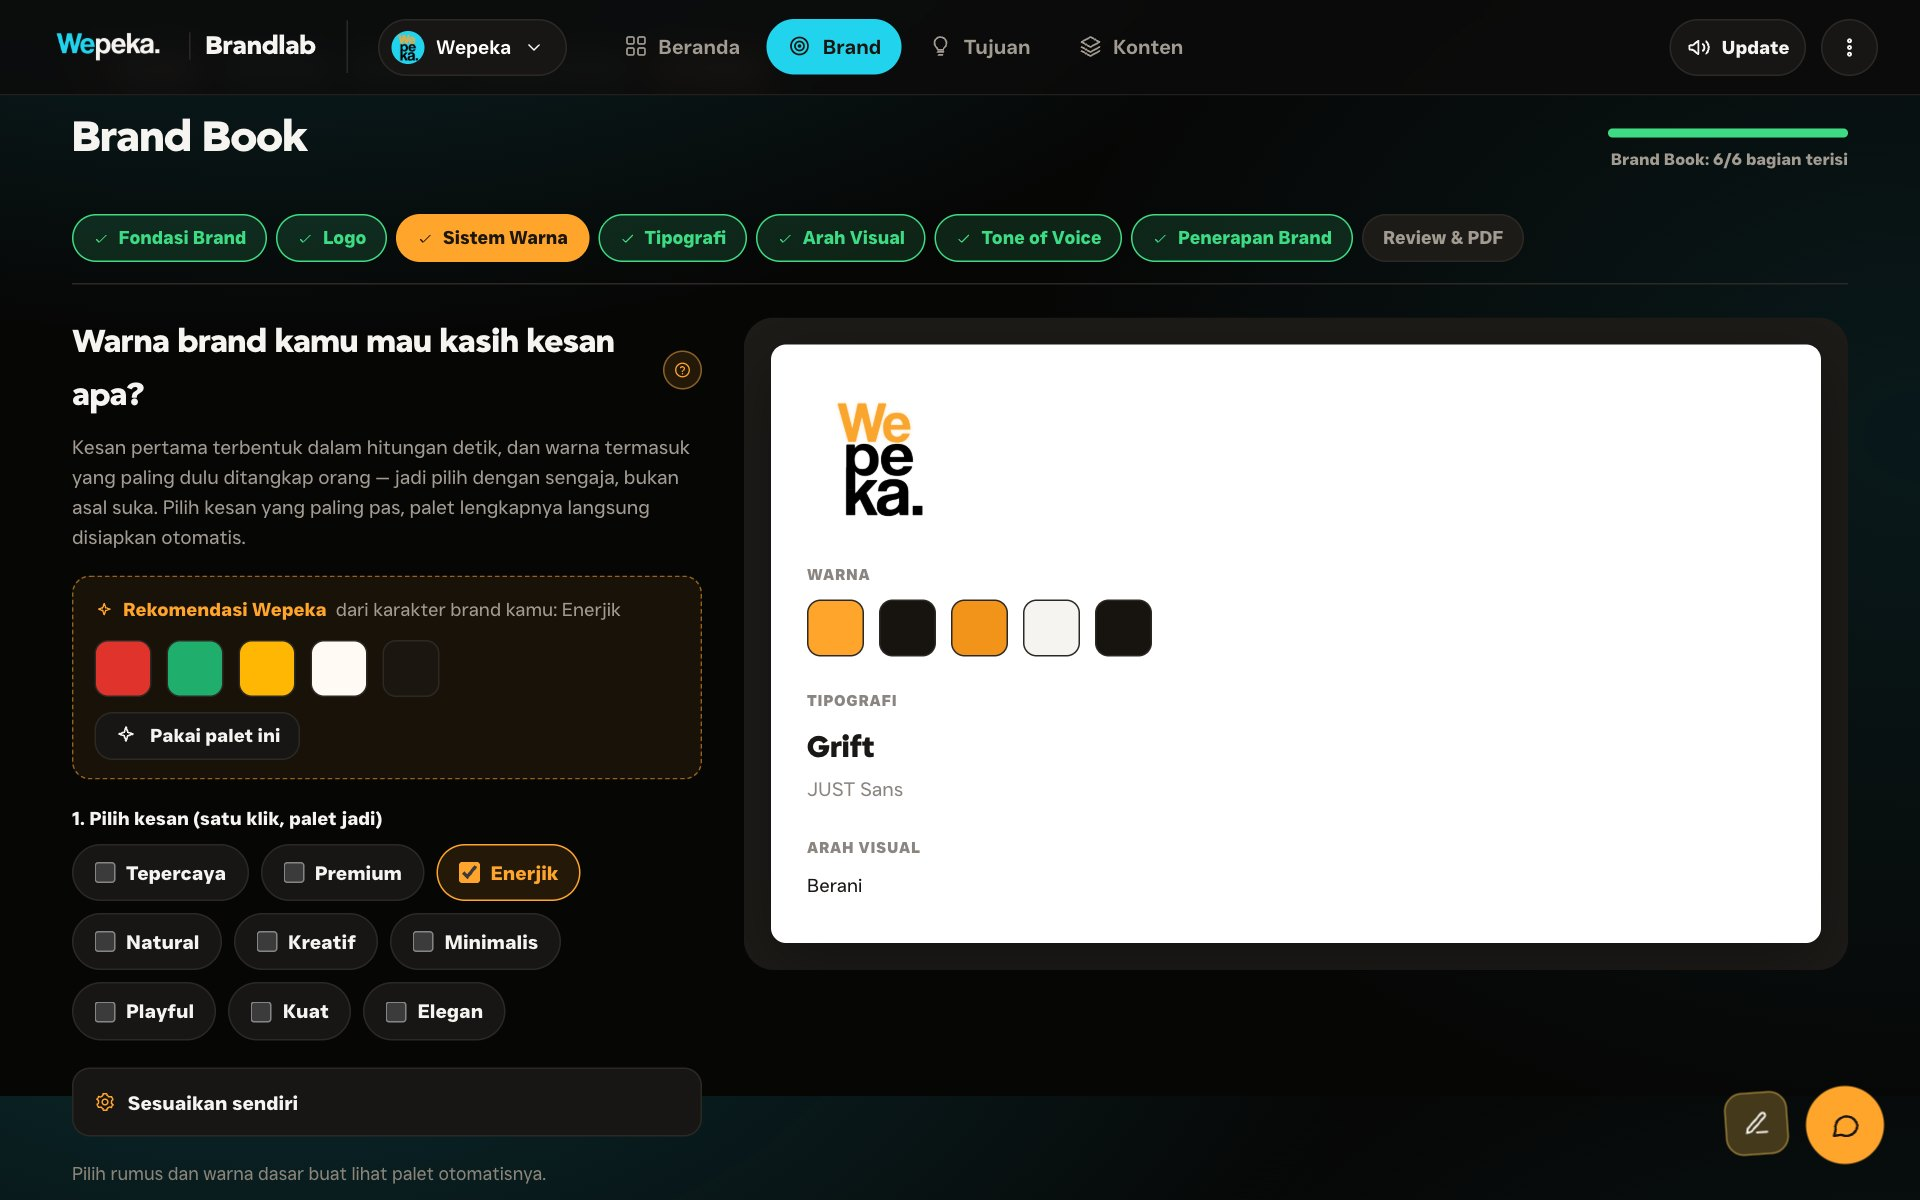
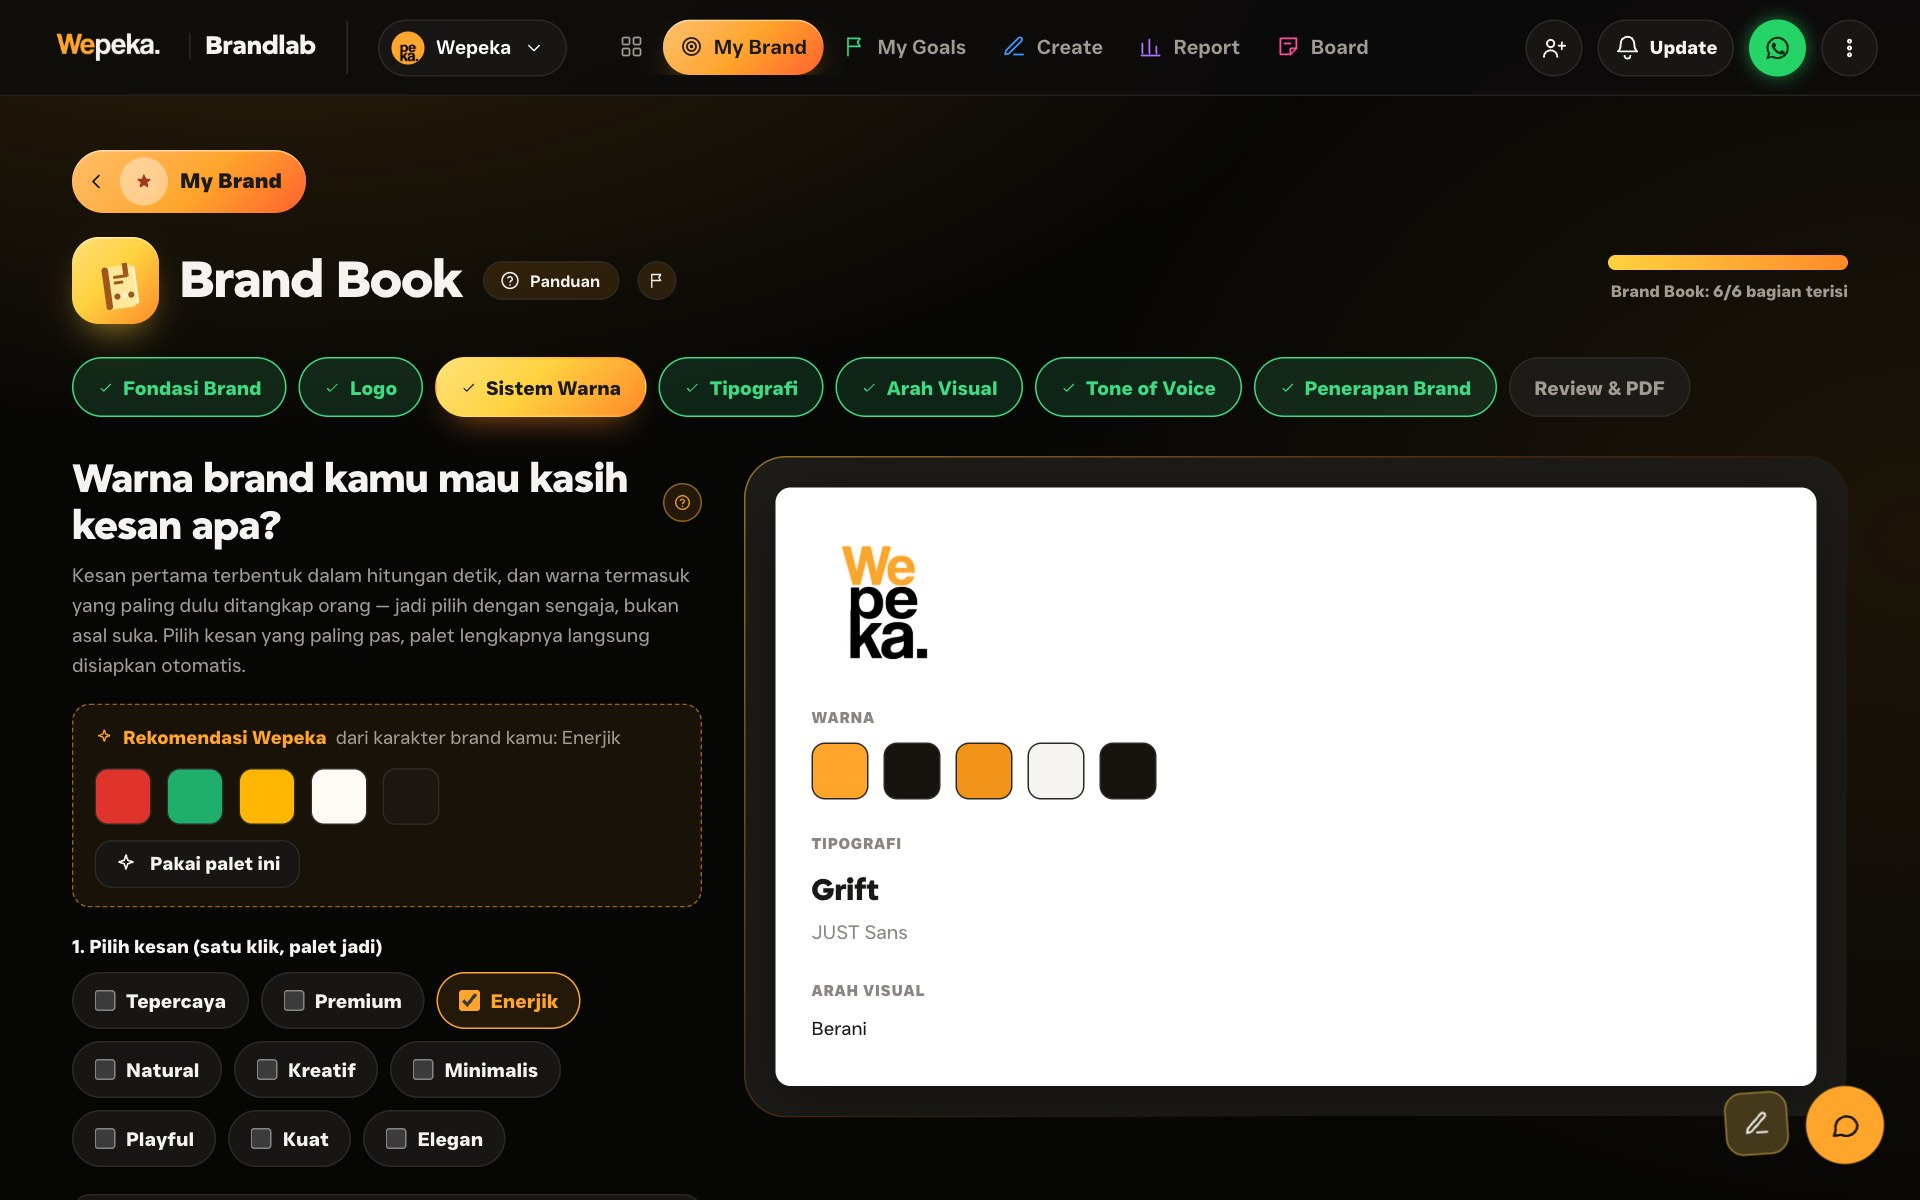
Front page and /founder show the new Brandlab (five apps)
The signed-out front page keeps in step with wepeka.com/brandlab: the 12
module screenshots are retaken from the new UI, the modules carry the app
names and colours. /founder gets the new pictures (cropped for phones),
feature tags named and coloured after the apps, and a Beranda shot of the
five apps under "Semua nyambung di 1 sistem".

diff --git a/founder/index.html b/founder/index.html
@@ -97,47 +97,47 @@
       <li>
         <span class="fd-step-n" aria-hidden="true">1</span>
         <div class="fd-step-body">
-          <span class="fd-step-tag fd-tag-brand">Brand</span>
+          <span class="fd-step-tag fd-tag-brand">My Brand</span>
           <h3>Brand DNA</h3>
           <p>Kenali pelangganmu, masalah mereka, dan kenapa harus kamu.</p>
           <div class="fd-chips"><span>7 langkah</span><span>AI kasih pilihan jawaban</span><span>One-liner brand</span></div>
-          <img src="/founder/img/brand-dna.webp" width="800" height="500" loading="lazy" decoding="async" alt="Layar Brand DNA: pertanyaan per langkah dengan pilihan jawaban dari AI">
+          <img src="/founder/img/brand-dna.webp" width="800" height="500" loading="lazy" decoding="async" alt="Layar Brand DNA: pertanyaan per langkah, contoh jawaban, dan kartu identitas brand di samping">
         </div>
       </li>
       <li>
         <span class="fd-step-n" aria-hidden="true">2</span>
         <div class="fd-step-body">
-          <span class="fd-step-tag fd-tag-brand">Brand</span>
+          <span class="fd-step-tag fd-tag-brand">My Brand</span>
           <h3>Brand Book</h3>
           <p>Logo, warna, font, dan gaya bicara jadi satu pedoman.</p>
           <div class="fd-chips"><span>Nyambung dari Brand DNA</span><span>PDF buat tim & vendor</span><span>3 gaya premium</span></div>
-          <img src="/founder/img/brand-book.webp" width="800" height="500" loading="lazy" decoding="async" alt="Layar Brand Book: memilih warna brand">
+          <img src="/founder/img/brand-book.webp" width="800" height="500" loading="lazy" decoding="async" alt="Layar Brand Book: memilih warna brand dengan rekomendasi Wepeka">
         </div>
       </li>
       <li>
         <span class="fd-step-n" aria-hidden="true">3</span>
         <div class="fd-step-body">
-          <span class="fd-step-tag fd-tag-tujuan">Tujuan</span>
-          <h3>Tujuan & milestone</h3>
+          <span class="fd-step-tag fd-tag-tujuan">My Goals</span>
+          <h3>Tujuan & target</h3>
           <p>Target besar dipecah jadi level dan milestone kecil.</p>
           <div class="fd-chips"><span>Sosmed</span><span>Komunitas</span><span>Penjualan</span><span>Progres kebaca dari datamu</span></div>
-          <img src="/founder/img/tujuan.webp" width="800" height="500" loading="lazy" decoding="async" alt="Layar Tujuan: level dan milestone menuju target">
+          <img src="/founder/img/tujuan.webp" width="800" height="500" loading="lazy" decoding="async" alt="Layar My Goals: tujuan Tumbuh di Sosmed, followers menuju target, dan level berikutnya">
         </div>
       </li>
       <li>
         <span class="fd-step-n" aria-hidden="true">4</span>
         <div class="fd-step-body">
-          <span class="fd-step-tag fd-tag-tujuan">Tujuan</span>
+          <span class="fd-step-tag fd-tag-tujuan">My Goals</span>
           <h3>Ide campaign</h3>
           <p>Mikirin ide campaign dan konten bareng AI, sampai siap dieksekusi.</p>
           <div class="fd-chips"><span>Brainstorm</span><span>Konten per tahap</span><span>Event & launching</span><span>Jadi script</span></div>
-          <img src="/founder/img/brainstorm.webp" width="800" height="500" loading="lazy" decoding="async" alt="Layar Brandlab: ide konten untuk sebuah tujuan, siap dijadikan script">
+          <img src="/founder/img/brainstorm.webp" width="800" height="500" loading="lazy" decoding="async" alt="Tanya Brandlab: ide konten dengan tombol Pakai ini, Buatkan script, dan Simpan">
         </div>
       </li>
       <li>
         <span class="fd-step-n" aria-hidden="true">5</span>
         <div class="fd-step-body">
-          <span class="fd-step-tag fd-tag-konten">Konten</span>
+          <span class="fd-step-tag fd-tag-konten">Create</span>
           <h3>Creator</h3>
           <p>Script, carousel, dan caption pakai suara brand-mu.</p>
           <div class="fd-chips"><span>100+ hook</span><span>Carousel</span><span>Teleprompter</span><span>Caption & hashtag</span></div>
@@ -145,13 +145,13 @@
             <img src="/founder/img/template-hook.webp" width="800" height="500" loading="lazy" decoding="async" alt="Layar Template hook di Creator: 10 kelompok hook dan kalimat pembuka dengan bagian kosong untuk diisi">
             <figcaption>100+ hook: 100 template kalimat pembuka + 12 jenis hook</figcaption>
           </figure>
-          <img src="/founder/img/creator.webp" width="800" height="500" loading="lazy" decoding="async" alt="Layar Creator: script video per bagian">
+          <img src="/founder/img/creator.webp" width="800" height="500" loading="lazy" decoding="async" alt="Layar Creator: daftar konten minggu ini dan script video yang sedang ditulis">
         </div>
       </li>
       <li>
         <span class="fd-step-n" aria-hidden="true">6</span>
         <div class="fd-step-body">
-          <span class="fd-step-tag fd-tag-konten">Konten</span>
+          <span class="fd-step-tag fd-tag-konten">Create</span>
           <h3>Kalender</h3>
           <p>Jadwal konten rapi, AI bantu usulin tanggalnya.</p>
           <div class="fd-chips"><span>Jadwal 3 minggu</span><span>Rencana minggu ini</span><span>Seri konten</span><span>Tulisan Cepat</span></div>
@@ -161,11 +161,11 @@
       <li>
         <span class="fd-step-n" aria-hidden="true">7</span>
         <div class="fd-step-body">
-          <span class="fd-step-tag fd-tag-hasil">Hasil</span>
-          <h3>Insight & laporan</h3>
-          <p>Upload screenshot Insights, angkanya kebaca sendiri.</p>
+          <span class="fd-step-tag fd-tag-hasil">Report</span>
+          <h3>Report & laporan</h3>
+          <p>Semua angka kontenmu di satu halaman. Update tinggal screenshot Insights.</p>
           <div class="fd-chips"><span>Nilai tiap konten</span><span>Sinyal di Beranda</span><span>Laporan PDF</span><span>Pelacak penjualan</span></div>
-          <img src="/founder/img/insight.webp" width="800" height="500" loading="lazy" decoding="async" alt="Layar Isi Interaksi: angka dibaca dari screenshot Insights">
+          <img src="/founder/img/insight.webp" width="800" height="500" loading="lazy" decoding="async" alt="Layar Report: total views, interaksi, followers baru, reach, dan persentase konten sehat">
         </div>
       </li>
       <li>
@@ -192,12 +192,16 @@
   <section class="fd-section fd-system" aria-labelledby="fd-system" data-track="sistem">
     <h2 id="fd-system" class="fd-h2">Semua nyambung di 1 sistem.</h2>
     <ol class="fd-loop" aria-label="Alur Brandlab">
-      <li><b>Brand DNA</b><span>jadi dasar AI mikir dan nulis</span></li>
-      <li><b>Tujuan</b><span>nentuin konten apa yang dibuat</span></li>
-      <li><b>Konten</b><span>dibuat, dijadwal, diterbitkan</span></li>
-      <li><b>Hasil</b><span>balik jadi bahan strategi berikutnya</span></li>
+      <li><b>My Brand</b><span>jadi dasar AI mikir dan nulis</span></li>
+      <li><b>My Goals</b><span>nentuin konten apa yang dibuat</span></li>
+      <li><b>Create</b><span>dibuat, dijadwal, diterbitkan</span></li>
+      <li><b>Report</b><span>balik jadi bahan strategi berikutnya</span></li>
     </ol>
     <p class="fd-lead">Bukan 10 aplikasi terpisah yang harus kamu sambung sendiri. Satu tempat, satu alur, makin dipakai makin ngerti brand-mu.</p>
+    <figure class="fd-fig fd-home-shot">
+      <img src="/founder/img/beranda.webp" width="800" height="500" loading="lazy" decoding="async" alt="Beranda Brandlab: langkah hari ini di kiri, lalu lima aplikasi: My Brand, My Goals, Create, Report, dan Board">
+      <figcaption>Beranda: 5 aplikasi + satu langkah yang perlu dikerjain hari ini</figcaption>
+    </figure>
     <div class="fd-video" data-show="video" hidden>
       <button type="button" class="fd-video-btn" data-video aria-label="Putar video: Apa itu Brandlab?">
         <img data-f="videoThumb" alt="" width="480" height="270" loading="lazy" decoding="async">

diff --git a/js/landing-copy.en.js b/js/landing-copy.en.js
@@ -81,9 +81,9 @@ export default {
       "topics": {
         "all": "All",
         "intro": "Intro",
-        "brand": "Brand",
-        "goals": "Goals",
-        "content": "Content",
+        "brand": "My Brand",
+        "goals": "My Goals",
+        "content": "Create",
         "ai": "AI"
       },
       "empty": "No video matches that yet. Try another word, such as calendar, script or AI.",
@@ -211,10 +211,10 @@ export default {
     "modules": {
       "eyebrow": "See what's inside",
       "title": "7 core capabilities, 1 brand system",
-      "subtitle": "Four tabs: Home, Brand, Goals, Content. This is what you open every day in Brandlab — everything is per brand, and one account can run more than one brand.",
+      "subtitle": "Five apps on one Home: My Brand, My Goals, Create, Report and Board, plus the one step to do today. Everything is per brand, and one account can run more than one brand.",
       "items": [
         {
-          "name": "Brand DNA & Brand Book",
+          "name": "My Brand: Brand DNA & Brand Book",
           "tagline": "Your brand foundation in 7 steps, exported as a brand guidelines PDF.",
           "points": [
             "A 7-part StoryBrand wizard: who your customer is, their problem, your position, down to a one-liner",
@@ -223,7 +223,7 @@ export default {
           ]
         },
         {
-          "name": "Goals & Roadmap",
+          "name": "My Goals: Goals & Roadmap",
           "tagline": "Pick a goal, get a ladder of weekly missions.",
           "points": [
             "Pick the goal: product launch, grow followers, drive sales, build a personal brand",
@@ -232,7 +232,7 @@ export default {
           ]
         },
         {
-          "name": "Creator",
+          "name": "Create: Creator",
           "tagline": "Hooks, scripts and captions in your brand's voice.",
           "points": [
             "A hook, video script and caption generator that reads your Brand DNA — not a generic template",
@@ -241,7 +241,7 @@ export default {
           ]
         },
         {
-          "name": "Calendar & AI Auto-Schedule",
+          "name": "Create: Calendar & AI Auto-Schedule",
           "tagline": "Drag content onto a date, or ask the AI to suggest the dates.",
           "points": [
             "Content database + calendar in one place: draft, scheduled, published",
@@ -250,13 +250,13 @@ export default {
           ]
         },
         {
-          "name": "Insights from a Screenshot + Performance Signals",
-          "tagline": "Update your numbers from a screenshot — no API setup.",
+          "name": "Report: Insights & PDF Report",
+          "tagline": "All your content numbers on one page — updated from a screenshot.",
           "points": [
             "Upload an Instagram Insights screenshot and Brandlab reads the numbers itself (views, reach, likes, saves, followers)",
             "Every post is scored against your own benchmarks, per funnel stage",
             "Automatic signals on your home screen: a post taking off, engagement dropping, a posting streak at risk, overdue content",
-            "Download a performance report as a PDF, ready to send a client or your team"
+            "The Report page: headline numbers, best content, and a one-click PDF report, ready to send a client or your team"
           ]
         },
         {
@@ -270,7 +270,7 @@ export default {
         },
         {
           "name": "Brainstorm, Sales Tracker & Quick Copy",
-          "tagline": "Companions inside the Goals and Content tabs.",
+          "tagline": "Companions inside My Goals and Create.",
           "points": [
             "Brainstorm: a thinking partner for campaign ideas and content angles, ideas can be saved in one tap",
             "Sales Tracker: log sales so content can be compared with revenue",

diff --git a/js/landing-copy.id.js b/js/landing-copy.id.js
@@ -81,9 +81,9 @@ export default {
       "topics": {
         "all": "Semua",
         "intro": "Kenalan",
-        "brand": "Brand",
-        "goals": "Tujuan",
-        "content": "Konten",
+        "brand": "My Brand",
+        "goals": "My Goals",
+        "content": "Create",
         "ai": "AI"
       },
       "empty": "Belum ada video yang cocok. Coba kata lain, misalnya kalender, script, atau AI.",
@@ -211,10 +211,10 @@ export default {
     "modules": {
       "eyebrow": "Lihat sendiri isinya",
       "title": "7 kemampuan inti, 1 sistem brand",
-      "subtitle": "Empat tab: Beranda, Brand, Tujuan, Konten. Ini yang kamu buka tiap hari di Brandlab — semuanya per brand, dan satu akun bisa pegang lebih dari satu brand.",
+      "subtitle": "Lima aplikasi di satu Beranda: My Brand, My Goals, Create, Report, dan Board, plus satu langkah yang perlu kamu kerjain hari ini. Semuanya per brand, dan satu akun bisa pegang lebih dari satu brand.",
       "items": [
         {
-          "name": "Brand DNA & Brand Book",
+          "name": "My Brand: Brand DNA & Brand Book",
           "tagline": "Fondasi brand dalam 7 langkah, jadi PDF brand guidelines.",
           "points": [
             "Wizard StoryBrand 7 bagian: siapa pelangganmu, masalahnya, posisi brand-mu, sampai one-liner",
@@ -223,7 +223,7 @@ export default {
           ]
         },
         {
-          "name": "Tujuan & Roadmap",
+          "name": "My Goals: Tujuan & Roadmap",
           "tagline": "Pilih tujuan, dapat tangga misi mingguan.",
           "points": [
             "Pilih tujuannya: launching produk, naikin follower, dorong penjualan, bangun personal brand",
@@ -232,7 +232,7 @@ export default {
           ]
         },
         {
-          "name": "Creator",
+          "name": "Create: Creator",
           "tagline": "Hook, naskah, dan caption dengan suara brand kamu.",
           "points": [
             "Generator hook, script video, dan caption yang baca Brand DNA kamu — bukan template generik",
@@ -241,7 +241,7 @@ export default {
           ]
         },
         {
-          "name": "Kalender & AI Auto-Schedule",
+          "name": "Create: Kalender & AI Auto-Schedule",
           "tagline": "Tarik konten ke tanggal, atau minta AI usulin jadwalnya.",
           "points": [
             "Database konten + kalender dalam satu tempat: draft, dijadwalkan, terbit",
@@ -250,13 +250,13 @@ export default {
           ]
         },
         {
-          "name": "Insight dari Screenshot + Sinyal Performa",
-          "tagline": "Update angka tinggal screenshot — tanpa setup API.",
+          "name": "Report: Insight & Laporan PDF",
+          "tagline": "Semua angka kontenmu di satu halaman — update tinggal screenshot.",
           "points": [
             "Upload screenshot Instagram Insights, Brandlab baca angkanya sendiri (views, reach, likes, saves, follower)",
             "Tiap post dinilai pakai benchmark brand kamu sendiri, per tahap funnel",
             "Sinyal otomatis di Beranda: post yang lagi naik, engagement turun, streak posting terancam, konten overdue",
-            "Download laporan performa jadi PDF, tinggal kirim ke klien atau tim"
+            "Halaman Report: angka utama, konten terbaik, dan laporan PDF sekali klik, tinggal kirim ke klien atau tim"
           ]
         },
         {
@@ -270,7 +270,7 @@ export default {
         },
         {
           "name": "Brainstorm, Pelacak Penjualan & Tulisan Cepat",
-          "tagline": "Pelengkap di dalam tab Tujuan dan Konten.",
+          "tagline": "Pelengkap di dalam My Goals dan Create.",
           "points": [
             "Brainstorm: partner mikir buat ide kampanye atau angle konten, idenya bisa langsung disimpan",
             "Pelacak Penjualan: catat penjualan supaya konten bisa dibandingkan dengan omzet",

diff --git a/founder/founder.css b/founder/founder.css
@@ -147,9 +147,12 @@ main{ max-width:640px; margin:0 auto; padding:0 var(--gutter); }
 .fd-step-tag{ display:inline-block; margin-top:7px; font-size:11.5px; font-weight:800; letter-spacing:.12em; text-transform:uppercase; color:var(--orange); }
 .fd-step-body h3{ margin-top:2px; }
 .fd-kicker--violet{ color:#c4b5fd; }
-.fd-tag-tujuan{ color:#fb7185 !important; }
-.fd-tag-konten{ color:#f472b6 !important; }
-.fd-tag-hasil{ color:#c084fc !important; }
+/* Each feature wears its app's colour (the app's js/apps.js): My Brand
+   orange, My Goals green, Create blue, Report purple. */
+.fd-tag-brand{ color:#FFA52B !important; }
+.fd-tag-tujuan{ color:#30D97D !important; }
+.fd-tag-konten{ color:#5AACFF !important; }
+.fd-tag-hasil{ color:#B98BFF !important; }
 .fd-tag-ai{ color:#a5b4fc !important; }
 .fd-chips{ display:flex; flex-wrap:wrap; gap:6px; margin:0 0 12px; }
 .fd-chips span{ padding:5px 10px; border-radius:999px; background:rgba(255,255,255,.06); border:1px solid rgba(255,255,255,.1); font-size:12.5px; font-weight:700; color:#e9e4f0; white-space:nowrap; }
@@ -173,6 +176,9 @@ main{ max-width:640px; margin:0 auto; padding:0 var(--gutter); }
 .fd-fig{ margin:0 0 10px; }
 .fd-fig img{ width:100%; height:auto; aspect-ratio:8/5; object-fit:cover; border-radius:14px; border:1px solid rgba(236,72,153,.45); background:#15121b; box-shadow:0 18px 40px -22px rgba(236,72,153,.6); }
 .fd-fig figcaption{ margin-top:6px; font-size:12.5px; font-weight:700; color:#f9a8d4; }
+.fd-home-shot{ margin:18px auto 6px; max-width:720px; }
+.fd-home-shot img{ border-color: rgba(255,165,43,.45); box-shadow:0 18px 40px -22px rgba(255,165,43,.55); }
+.fd-home-shot figcaption{ color:#ffc56b; text-align:center; }
 .fd-grow{ text-align:center; padding:52px 0; }
 .fd-grow-big{ margin:0; font-family:"Grift Black","JUST Sans",sans-serif; font-weight:900; font-size:clamp(28px,8.4vw,44px); line-height:1.08; letter-spacing:-.015em; text-wrap:balance; }
 .fd-grow-sub{ margin:14px auto 0; max-width:26em; font-size:15px; color:var(--muted); }

diff --git a/js/views/landing.js b/js/views/landing.js
@@ -352,13 +352,13 @@ function fitHTML() {
 // `wide`: a single screenshot too dense for half a row (the goal roadmap).
 const SHOT_DIR = "assets/landing/shots";
 const MODULES = [
-  { color: "#06b6d4", videos: ["dna", "book"], shots: [["01-brand-dna.jpg", "AI"], ["02-brand-book-warna.jpg", "Warna"]] },
-  { color: "#8b5cf6", videos: ["grow", "goal", "event"], shots: [["03-tujuan-roadmap.jpg", "Roadmap"]], wide: true },
-  { color: "#ec4899", videos: ["script", "flow", "series"], shots: [["05-creator-script.jpg", "Script"], ["06-teleprompter.jpg", "Teleprompter"], ["04-daftar-konten.jpg", "Terbit"]] },
-  { color: "#3b82f6", videos: ["calendar"], shots: [["07-kalender.jpg", "Jadwal"]] },
-  { color: "#22c55e", videos: ["list"], shots: [["08-insight-screenshot.jpg", "Screenshot"], ["08-laporan-pdf.jpg", "PDF"]] },
-  { color: "#f59e0b", videos: ["aiIntro", "ask", "credits"], shots: [["09-tanya-brandlab.jpg", "AI"]] },
-  { color: "#6366f1", videos: ["sales", "quick"], shots: [["10-brainstorm.jpg", "Brainstorm"], ["10-tulisan-cepat.jpg", "Tulisan Cepat"]] },
+  { color: "#FFA52B", videos: ["dna", "book"], shots: [["01-brand-dna.jpg", "AI"], ["02-brand-book-warna.jpg", "Warna"]] },
+  { color: "#30D97D", videos: ["grow", "goal", "event"], shots: [["03-tujuan-roadmap.jpg", "Roadmap"]], wide: true },
+  { color: "#3B9BFF", videos: ["script", "flow", "series"], shots: [["05-creator-script.jpg", "Script"], ["06-teleprompter.jpg", "Teleprompter"], ["04-daftar-konten.jpg", "Terbit"]] },
+  { color: "#0EA5E9", videos: ["calendar"], shots: [["07-kalender.jpg", "Jadwal"]] },
+  { color: "#A974FF", videos: ["list"], shots: [["08-insight-screenshot.jpg", "Report"], ["08-laporan-pdf.jpg", "PDF"]] },
+  { color: "#FF6FAE", videos: ["aiIntro", "ask", "credits"], shots: [["09-tanya-brandlab.jpg", "AI"]] },
+  { color: "#D946EF", videos: ["sales", "quick"], shots: [["10-brainstorm.jpg", "Brainstorm"], ["10-tulisan-cepat.jpg", "Tulisan Cepat"]] },
 ];
 
 // A screenshot in a browser-window frame; click opens it large.
